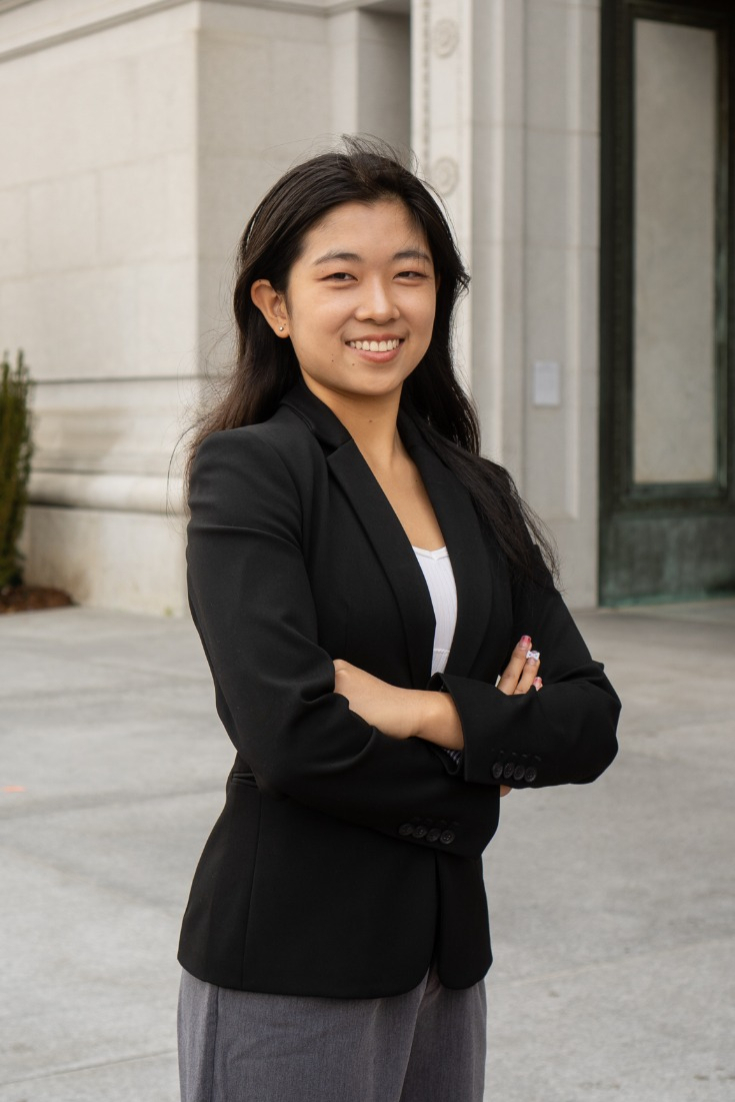
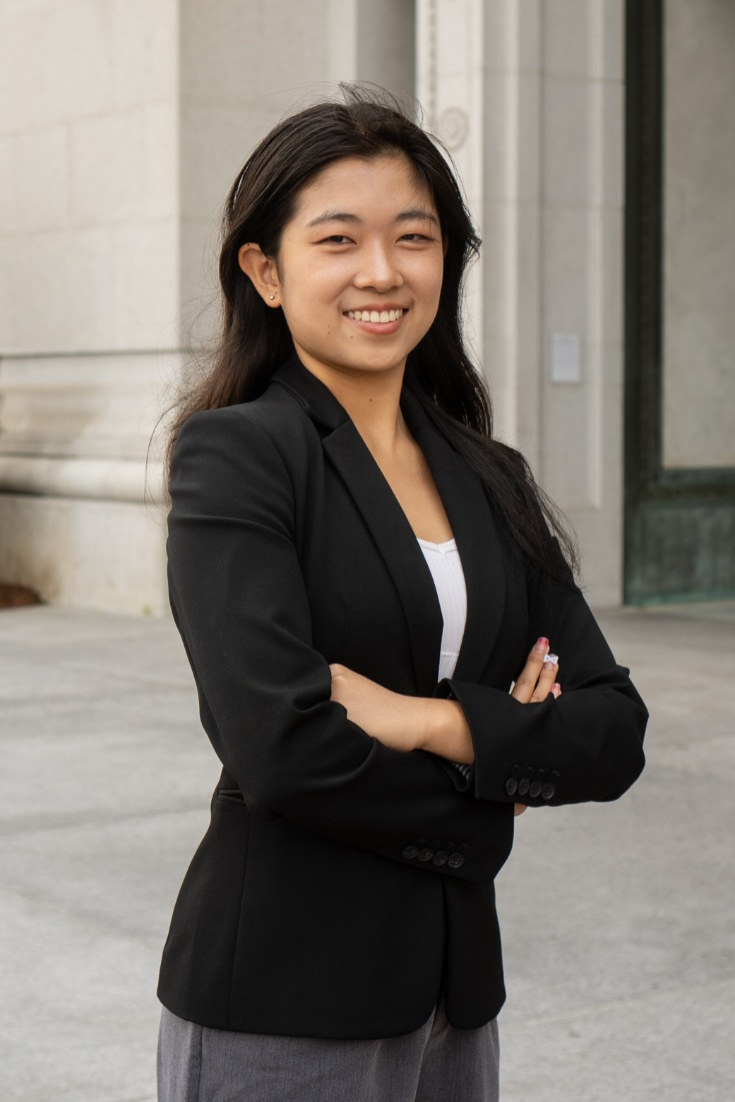
Updated VPP and PM bios and photos

diff --git a/leadership.html b/leadership.html
@@ -207,7 +207,7 @@
               </div>
               <div class="col-11 col-sm-7 col-md-6 mx-auto toFadeIn">
                 <figure class="bio-card border border-dark">
-                  <img class="w-100 bio-rect-img" src="assets/img/portraits/alice.jpg" alt="Alice Han portrait">
+                  <img class="w-100 bio-rect-img" src="assets/img/portraits/alyson.jpg" alt="Alyson Chang portrait">
                   <figcaption class="pb-3 mx-2 caption text-light">
                     <div class="">
                       <div class="bio-visible rounded-top py-3 px-1">
@@ -215,8 +215,8 @@
                         <span class="h6 role">Vice President of Projects</span>
                       </div>
                       <div class="bio-hidden">
-                        <p>Hi! I'm Alice, a junior studying Molecular and Cell Biology and Business Administration as a part of the LSBE program. My professional interests span across biotech, entrepreneurship, consulting, and venture capital. In my free time, you can usually catch me at the gym, trying out new food places, or more recently, watching Formula 1. I'm always open to opportunities and trying new things! You can reach me at alice.han@berkeley.edu.</p>
-                        <a class="text-light h4" target="_blank" rel="noopener noreferrer" class="text-warning" href="https://www.linkedin.com/in/alicehan02"><i class="fab fa-linkedin"></i></a>
+                        <p>Hello! My name is Alyson and I'm a junior studying Business Administration. I'm currently pursuing a career in technical program management and also have a passion for marketing. In my free time, I love making fun videos with friends, photography, playing basketball, and trying new things!</p>
+                        <a class="text-light h4" target="_blank" rel="noopener noreferrer" class="text-warning" href="https://www.linkedin.com/in/alysonchang/"><i class="fab fa-linkedin"></i></a>
                       </div>
                     </div>
                   </figcaption>
@@ -340,7 +340,41 @@
                       </div>
                       <div class="bio-hidden">
                         <p>Hi there! I'm Matt, a junior studying Political Economy with a concentration in Financial Economics. My current professional interests are consulting, product marketing, and entrepreneurship. During my free time, I like going to the gym, going to music festivals/concerts, playing volleyball, and online shopping. </p>
-                        <a class="text-light h4" target="_blank" rel="noopener noreferrer" class="text-warning" href="https://www.linkedin.com/in/amy-zhong17/"><i class="fab fa-linkedin"></i></a>
+                        <a class="text-light h4" target="_blank" rel="noopener noreferrer" class="text-warning" href="https://www.linkedin.com/in/mahn88/"><i class="fab fa-linkedin"></i></a>
+                      </div>
+                    </div>
+                  </figcaption>
+                </figure>
+              </div>
+              <div class="col-11 col-sm-7 col-md-6 mx-auto toFadeIn">
+                <figure class="bio-card border border-dark">
+                  <img class="w-100 bio-rect-img" src="assets/img/portraits/henryjia.jpg" alt="Henry Jia portrait">
+                  <figcaption class="pb-3 mx-2 caption text-light">
+                    <div class="">
+                      <div class="bio-visible rounded-top py-3 px-1">
+                        <h5 class="h5">Katrina Nguyen</h5>
+                        <span class="h6 role">Project Manager</span>
+                      </div>
+                      <div class="bio-hidden">
+                        <p>Katrina bio</p>
+                        <a class="text-light h4" target="_blank" rel="noopener noreferrer" class="text-warning" href="https://www.linkedin.com/in/katrinanguyennn"><i class="fab fa-linkedin"></i></a>
+                      </div>
+                    </div>
+                  </figcaption>
+                </figure>
+              </div>
+              <div class="col-11 col-sm-7 col-md-6 mx-auto toFadeIn">
+                <figure class="bio-card border border-dark">
+                  <img class="w-100 bio-rect-img" src="assets/img/portraits/amber.jpg" alt="Amber Le portrait">
+                  <figcaption class="pb-3 mx-2 caption text-light">
+                    <div class="">
+                      <div class="bio-visible rounded-top py-3 px-1">
+                        <h5 class="h5">Amber Le</h5>
+                        <span class="h6 role">Project Manager</span>
+                      </div>
+                      <div class="bio-hidden">
+                        <p>Hello! I'm Amber, a sophomore studying Data Science and Cognitive Science, as well as the Certificate in Design Innovation. Professionally, I'm interested in exploring design in the tech industry with previous experiences in UI/UX design, user research, and product design. Outside of school, you can find me discovering new music, fueling my caffeine addiction, and doing dance covers with my friends! I'm super excited to meet new people, so feel free to reach out if you have any questions :-))</p>
+                        <a class="text-light h4" target="_blank" rel="noopener noreferrer" class="text-warning" href="https://www.linkedin.com/in/amberle0814/"><i class="fab fa-linkedin"></i></a>
                       </div>
                     </div>
                   </figcaption>
@@ -357,41 +391,7 @@
                       </div>
                       <div class="bio-hidden">
                         <p>Hello! My name is Henry Jia, and I am sophomore studying Data Science and intended Business Administration. My professional interests include Data Analytics, Business Analytics, and Sports Analytics. I'm a huge baseball, football, and basketball fan and love playing fantasy sports. In my free time, I enjoy playing basketball, being hardstuck gold in Valorant, and getting food with my friends!</p>
-                        <a class="text-light h4" target="_blank" rel="noopener noreferrer" class="text-warning" href="https://www.linkedin.com/in/jason-tao-910"><i class="fab fa-linkedin"></i></a>
-                      </div>
-                    </div>
-                  </figcaption>
-                </figure>
-              </div>
-              <div class="col-11 col-sm-7 col-md-6 mx-auto toFadeIn">
-                <figure class="bio-card border border-dark">
-                  <img class="w-100 bio-rect-img" src="assets/img/portraits/nathan.jpg" alt="Nathan Setokusumo portrait">
-                  <figcaption class="pb-3 mx-2 caption text-light">
-                    <div class="">
-                      <div class="bio-visible rounded-top py-3 px-1">
-                        <h5 class="h5">Nathan Setokusumo</h5>
-                        <span class="h6 role">Project Manager</span>
-                      </div>
-                      <div class="bio-hidden">
-                        <p>Hey everyone! My name is Nathan and I am a Junior studying Economics and Business Administration. I love playing the piano and I used to be a classical accompanist + soloist before coming to college. I even considered a major in music practice! My other interests include MMA and Boxing, running, hiking, calisthenics, and trying new things. In terms of professional interests, I intend to pursue a career in Private Equity, Asset Management, Consulting, and Non-profits.</p>
-                        <a class="text-light h4" target="_blank" rel="noopener noreferrer" class="text-warning" href="https://www.linkedin.com/in/nathansetokusumo/"><i class="fab fa-linkedin"></i></a>
-                      </div>
-                    </div>
-                  </figcaption>
-                </figure>
-              </div>
-              <div class="col-11 col-sm-7 col-md-6 mx-auto toFadeIn">
-                <figure class="bio-card border border-dark">
-                  <img class="w-100 bio-rect-img" src="assets/img/portraits/clairinew.jpg" alt="Clairine Wantah portrait">
-                  <figcaption class="pb-3 mx-2 caption text-light">
-                    <div class="">
-                      <div class="bio-visible rounded-top py-3 px-1">
-                        <h5 class="h5">Clairine Wantah</h5>
-                        <span class="h6 role">Project Manager</span>
-                      </div>
-                      <div class="bio-hidden">
-                        <p>Hi! I’m Clairine and I am a Project Manager this semester with nathan :) I'm currently pursuing Economics and Political Economy and am professionally interested in startups and VCs. On the weekends you can catch me finding the best french toast in town, going to the farmer’s market or staying home with a good book.</p>
-                        <a class="text-light h4" target="_blank" rel="noopener noreferrer" class="text-warning" href="https://www.linkedin.com/in/clairinewantah/"><i class="fab fa-linkedin"></i></a>
+                        <a class="text-light h4" target="_blank" rel="noopener noreferrer" class="text-warning" href="https://www.linkedin.com/in/henry-jia-44767521b"><i class="fab fa-linkedin"></i></a>
                       </div>
                     </div>
                   </figcaption>
@@ -399,16 +399,16 @@
               </div>
               <div class="col-11 col-sm-7 col-md-6 mx-auto toFadeIn">
                   <figure class="bio-card border border-dark">
-                    <img class="w-100 bio-rect-img" src="assets/img/portraits/josie.jpg" alt="Josie Nieh portrait">
+                    <img class="w-100 bio-rect-img" src="assets/img/portraits/maddie.jpg" alt="Madelynn Lee portrait">
                     <figcaption class="pb-3 mx-2 caption text-light">
                       <div class="">
                         <div class="bio-visible rounded-top py-3 px-1">
-                          <h5 class="h5">Josie Nieh</h5>
+                          <h5 class="h5">Madelynn Lee</h5>
                           <span class="h6 role">Project Manager</span>
                         </div>
                         <div class="bio-hidden">
-                          <p>Hi! My name is Josie Nieh and I'm a junior studying Business Administration and minoring in Data Science. Professionally I'm interested in finance, wealth management, and nonprofits. I'm particularly passionate about social impact work related to hunger and food insecurity. Outside of work and school, you can find me working out, bullet journaling, going to music festivals, or hunting down the best sushi spot! I love meeting new people so feel free to reach out :)</p>
-                          <a class="text-light h4" target="_blank" rel="noopener noreferrer" class="text-warning" href="https://www.linkedin.com/in/josie-nieh/"><i class="fab fa-linkedin"></i></a>
+                          <p>Hi! My name is Madelynn and I'm a sophomore studying Political Economy. Professionally, I'm interested in consulting and sustainability and am drawn to roles that intersect these two fields. Personally, I love traveling, spending time with friends, watching Premier League soccer, and spending time with my dogs!</p>
+                          <a class="text-light h4" target="_blank" rel="noopener noreferrer" class="text-warning" href="https://www.linkedin.com/in/madelynnlee/"><i class="fab fa-linkedin"></i></a>
                         </div>
                       </div>
                     </figcaption>
@@ -416,16 +416,16 @@
                 </div>
               <div class="col-11 col-sm-7 col-md-6 mx-auto toFadeIn">
                 <figure class="bio-card border border-dark">
-                  <img class="w-100 bio-rect-img" src="assets/img/portraits/alyson.jpg" alt="Alyson Chang portrait">
+                  <img class="w-100 bio-rect-img" src="assets/img/portraits/allyson.jpg" alt="Allyson Chen portrait">
                   <figcaption class="pb-3 mx-2 caption text-light">
                     <div class="">
                       <div class="bio-visible rounded-top py-3 px-1">
-                        <h5 class="h5">Alyson Chang</h5>
+                        <h5 class="h5">Allyson Chen</h5>
                         <span class="h6 role">Project Manager</span>
                       </div>
                       <div class="bio-hidden">
-                        <p>Hello! My name is Alyson Chang and I'm a junior majoring in Business Administration. Currently, my professional interests include project management, business technology, and marketing. Outside of work and PBL, I'm the Editor-In-Chief of UC Berkeley's Blue & Gold Yearbook as well as President of FeelGood, a club that makes grilled cheese sandwiches on campus and collects donations for The Hunger Project! In my free time, I love having photoshoots for friends, videography, and playing basketball.</p>
-                        <a class="text-light h4" target="_blank" rel="noopener noreferrer" class="text-warning" href="https://www.linkedin.com/in/alysonchang/"><i class="fab fa-linkedin"></i></a>
+                        <p>Hi everyone! I am Allyson Chen, a current sophomore intending major in Business Administration with a minor in industrial engineering and operations research. I am very interested in working within the  F&B industry as well as doing consulting for both big and small companies. Aside from my professional interests, you will often find me eating at a new restaurant, cooking, playing tennis, or watching a movie!!</p>
+                        <a class="text-light h4" target="_blank" rel="noopener noreferrer" class="text-warning" href="https://www.linkedin.com/in/allyson-chen-5688a021b/"><i class="fab fa-linkedin"></i></a>
                       </div>
                     </div>
                   </figcaption>

diff --git a/services.html b/services.html
@@ -363,7 +363,7 @@
       <h1 class="display-4 text-center">Interested in Working with Us?</h1>
       <div class="row toFadeIn">
         <div class="col-lg-8 mx-auto text-center">
-          Please contact Alice, our VP of Projects, at <a class="text-warning"
+          Please contact Alyson, our VP of Projects, at <a class="text-warning"
             href="mailto:vp.projects@pbl.berkeley.edu">vp.projects@pbl.berkeley.edu</a>
           <br>
           <a href="leadership.html#client-teams">
@@ -374,7 +374,7 @@
       <div class="row my-4 toFadeIn">
         <div class="col-md-3 mx-auto">
           <figure class="bio-card">
-            <img class="w-100 bio-rect-img" src="assets/img/portraits/alice.jpg" alt="Alice Han portrait">
+            <img class="w-100 bio-rect-img" src="assets/img/portraits/alyson.jpg" alt="Alyson Chang portrait">
           </figure>
         </div>
       </div>
